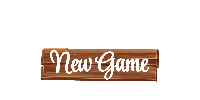
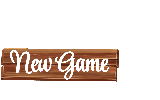
game save works

Changed region(s): [[0.0, 0.48, 0.8125, 0.81]]

diff --git a/src/game.py b/src/game.py
@@ -3,6 +3,7 @@ import random
 from animals import Animal, AnimalManager
 from player import Player, LevelUpManager
 from display import Display
+import pickle
 
 """ The Game class controls game logic and user interaction. """
 
@@ -19,25 +20,22 @@ class Game:
         self.loop_positions = [0] * 8 # positions for the start screen layers  
 
         """ Declare hit boxes here. """
-        self.continue_button_rect = pygame.Rect(190, 330, 500, 100)
-        self.new_game_button_rect = pygame.Rect(420, 270, 0, 0)
+        self.continue_button_rect = pygame.Rect(200, 330, 300, 100)
+        self.new_game_button_rect = pygame.Rect(500, 270, 300, 160)
         self.back_rect = pygame.Rect(10, 10, 90, 90)
         self.call_rect = pygame.Rect(765, 345, 220, 68)
         self.begin_rect = pygame.Rect(375, 350, 256, 87)
         self.ocean_pin_rect = pygame.Rect(650, 130, 100, 100)
         self.beach_pin_rect = pygame.Rect(150, 80, 100, 100)
-        self.lighthouse_pin_rect = pygame.Rect(260, 240, 100, 100)
+        self.lighthouse_pin_rect = pygame.Rect(245, 240, 100, 100)
         self.cave_pin_rect = pygame.Rect(310, 370, 100, 100)
         self.map_rect = pygame.Rect(1000, 80, 800, 400)
         self.info_rect = pygame.Rect(750, 35, 40, 40)
+        self.save_rect = pygame.Rect(90, 40, 810, 30)
 
         self.transitioning = Transition(self.display)
         self.pending_action = None
         self.transition = False #TO CHANGE HOLLY STUFF
- 
-
-
-
 
     def handle_events(self):
         """ Detect user input. """
@@ -57,11 +55,21 @@ class Game:
 
         click = pygame.mixer.Sound("src/click.wav")
         expup = pygame.mixer.Sound("src/expup.mp3")
+        save = "src/save_files/save.pkl"
 
         if self.state == "start":
-            if self.continue_button_rect.collidepoint(pos):
+            if self.new_game_button_rect.collidepoint(pos):
                 click.play()
                 self.state = "map"
+            if self.continue_button_rect.collidepoint(pos):
+                click.play()
+                try:
+                    with open (save, "rb") as player:
+                        self.player = pickle.load(player)
+                    self.state = "map"
+                except:
+                    print("no save file")
+                    self.state = "map"
 
         # when clicking a pin on the map, go to relevant location:
         elif self.state == "map":
@@ -85,6 +93,13 @@ class Game:
                 click.play()
                 self.pending_action = ("information", "N/A")
                 self.transitioning.start_fade_out()
+            elif self.save_rect.collidepoint(pos):
+                try:
+                    with open(save, "wb") as player_data:
+                        pickle.dump(self.player, player_data)
+                except:
+                    print("couldnt save")
+
         # call for an animal:
         elif self.state == "searching":
             if self.call_rect.collidepoint(pos):
@@ -213,11 +228,7 @@ class Game:
         self.display.screen.blit(self.display.continue_button_img, (self.continue_button_rect.topleft[0],int(self.continue_button_rect.topleft[1])-y_offset))
         self.display.screen.blit(self.display.new_game_button_img, (self.new_game_button_rect.topleft[0],int(self.new_game_button_rect.topleft[1])-y_offset))
 
-        # Visualize button hitboxes for debugging
-        #pygame.draw.rect(self.display.screen, (255, 0, 0), self.continue_button_rect, 2)
-        #pygame.draw.rect(self.display.screen, (0, 255, 0), self.new_game_button_rect, 2)
-        #map rect
-        if self.transition:
+        if self.transition:#map rect
             self.map_rect.x -= speeds[8]
             pygame.draw.rect(self.display.screen, (0,0,0), self.map_rect)
         x_offset = self.display.width-self.map_rect[0]
@@ -230,9 +241,10 @@ class Game:
         self.display.draw_text("Aberdeen Coast. Explore the Wildlife.", (283+900-x_offset, 35), (255, 255, 255))
         self.display.screen.blit(self.display.info_button, (750+900-x_offset, 35))
         self.display.screen.blit(self.display.map_bg, (100+900-x_offset, 80))
+        self.display.screen.blit(self.display.save_button, (810+900-x_offset, 30))
         self.display.screen.blit(self.display.pin, (650+900-x_offset, 130)) #deap ocean
         self.display.screen.blit(self.display.pin, (150+900-x_offset, 80)) # seal beach
-        self.display.screen.blit(self.display.pin, (260+900-x_offset, 240)) # lighthouse
+        self.display.screen.blit(self.display.pin, (245+900-x_offset, 240)) # lighthouse
         self.display.screen.blit(self.display.pin, (310+900-x_offset, 370)) # puffin cave
 
     def render_location_screen(self):
@@ -256,7 +268,7 @@ class Game:
 
     def render_instructions(self):
         for i, line in enumerate(self.display.instructions):
-            self.display.draw_text(line, (45, i * 30+100), (255, 255, 0))
+            self.display.draw_text(line, (22, i * 30+100), (35, 0, 35)) # purple tone
 
     def encounter(self):
         """ Searching for an animal. """

diff --git a/src/display.py b/src/display.py
@@ -24,26 +24,28 @@ class Display:
 
         """ Buttons """
         self.continue_button_img = self.scale("src/images/buttons/continue_button.png", (375, 187.5))
-        self.new_game_button_img = self.scale("src/images/buttons/new_game_button.png", (375, 187.5))
+        self.new_game_button_img = self.scale("src/images/buttons/new_game_button.png", (300, 187.5))
         self.pin = self.scale("src/images/map/Pin.png", (100, 100))
         self.back_button = self.scale("src/images/buttons/back_button.png", (104, 81))
         self.call_button = self.scale("src/images/buttons/call_button.png", (220, 68))
         self.begin_button = self.scale("src/images/buttons/begin_button.png", (256, 87))
         self.info_button = self.scale("src/images/buttons/info_button.png", (40, 40))
+        self.save_button = self.scale("src/images/buttons/save.png", (90, 40))
 
         """ Text """
 
         self.instructions = ["Welcome to North Sea Dwellers! Discover the coastal wildlife of Aberdeen.",
-                             "",
-                             "Use the map to travel through various iconic areas of the Aberdeen coastline.",
-                             "Throughout your journey you will encounter various animals that are commonly",
-                             "found near here. Animals such as harbour seals and dolphins can be frequently",
-                             "sighted, but there are also some rarer, endangered species such as puffins",
-                             "and grey seals",
-                             "However, the animals need your help! They are in need of assistance - from",
-                             "leading a puffin home, to helping a dolphin with its dance.",
-                             "The rarer animals are shy, so they might run away, but as you level up your",
-                             "reputation will improve and they will become more friendly and trusting."] 
+                             "   ",
+                             "Use the map to travel through various iconic areas of the Aberdeen",
+                             "coastline. Throughout your journey you will encounter various animals",
+                             "that are commonly found near here. Animals such as harbour seals and",
+                             "dolphins can be frequently sighted, but there are also some rarer,",
+                             "endangered species such as puffins and grey seals",
+                             "   ",
+                             "However, the animals need your help! They are in need of assistance:",
+                             "from leading a puffin home, to helping a dolphin with its dance.",
+                             "The rarer animals are shy, so they might run away, but as you level up",
+                             "your reputation will improve and they will become more friendly and trusting."] 
 
     def scale(self, file, scale = (1000, 500)):
         img = pygame.image.load(file).convert_alpha()
